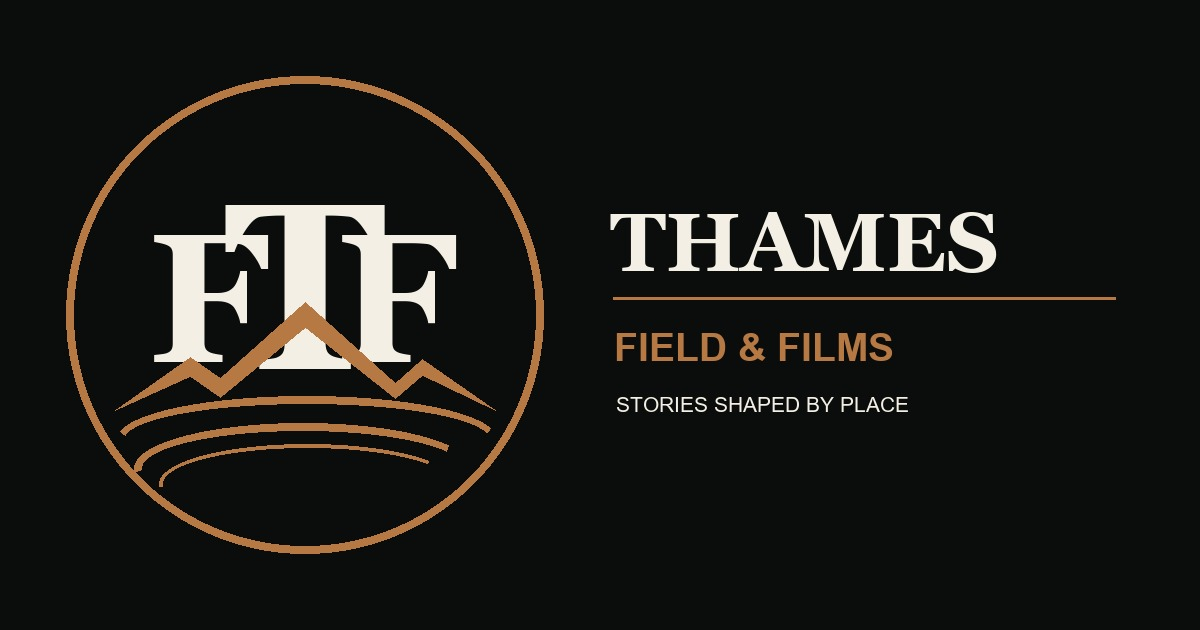
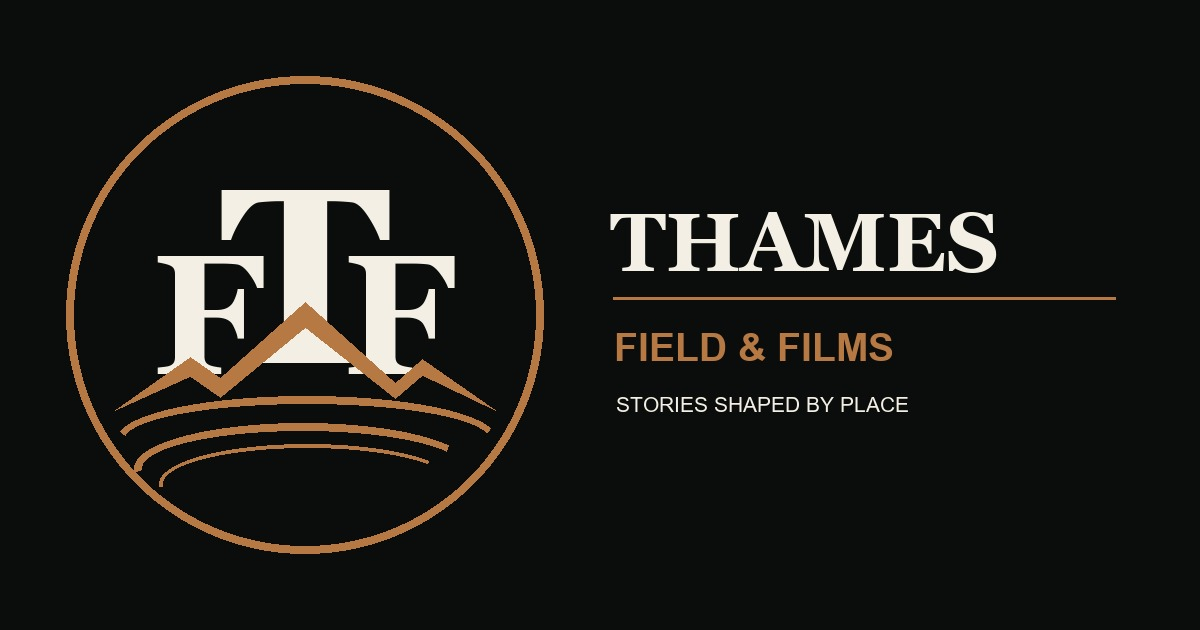
Refine TFF mark and watermark balance

Changed region(s): [[0.1233, 0.3016, 0.4008, 0.6032], [0.1233, 0.5429, 0.185, 0.6032]]

diff --git a/style.css b/style.css
@@ -30,7 +30,7 @@
 /* Thames Field & Films brand identity */
 .brand-mark{display:none}
 .brand-emblem{width:2.7rem;height:2.7rem;object-fit:contain;flex:0 0 auto}
-.hero-watermark{position:absolute;z-index:1;top:clamp(6.5rem,12vh,9rem);right:clamp(1.5rem,5vw,5rem);width:clamp(7.5rem,16vw,13rem);height:auto;opacity:.08;pointer-events:none;user-select:none}
+.hero-watermark{position:absolute;z-index:1;top:clamp(6.75rem,11vh,8.25rem);right:clamp(1.5rem,4vw,4rem);width:clamp(5.5rem,9vw,8.5rem);height:auto;opacity:.045;pointer-events:none;user-select:none}
 .footer-brand{display:block;width:max-content;max-width:100%}
-.footer-signature{display:block;width:clamp(12rem,20vw,17rem);max-width:100%;height:auto}
-@media(max-width:800px){.brand-emblem{width:2.4rem;height:2.4rem}.brand>span{font-size:.78rem}.hero-watermark{width:7rem;top:6.5rem;right:1.2rem;opacity:.07}.footer-brand{margin-inline:auto}}
+.footer-signature{display:block;width:clamp(16rem,28vw,23rem);max-width:100%;height:auto}
+@media(max-width:800px){.brand-emblem{width:2.4rem;height:2.4rem}.brand>span{font-size:.78rem}.hero-watermark{width:5.25rem;top:6.25rem;right:1rem;opacity:.04}.footer-brand{margin-inline:auto}}
